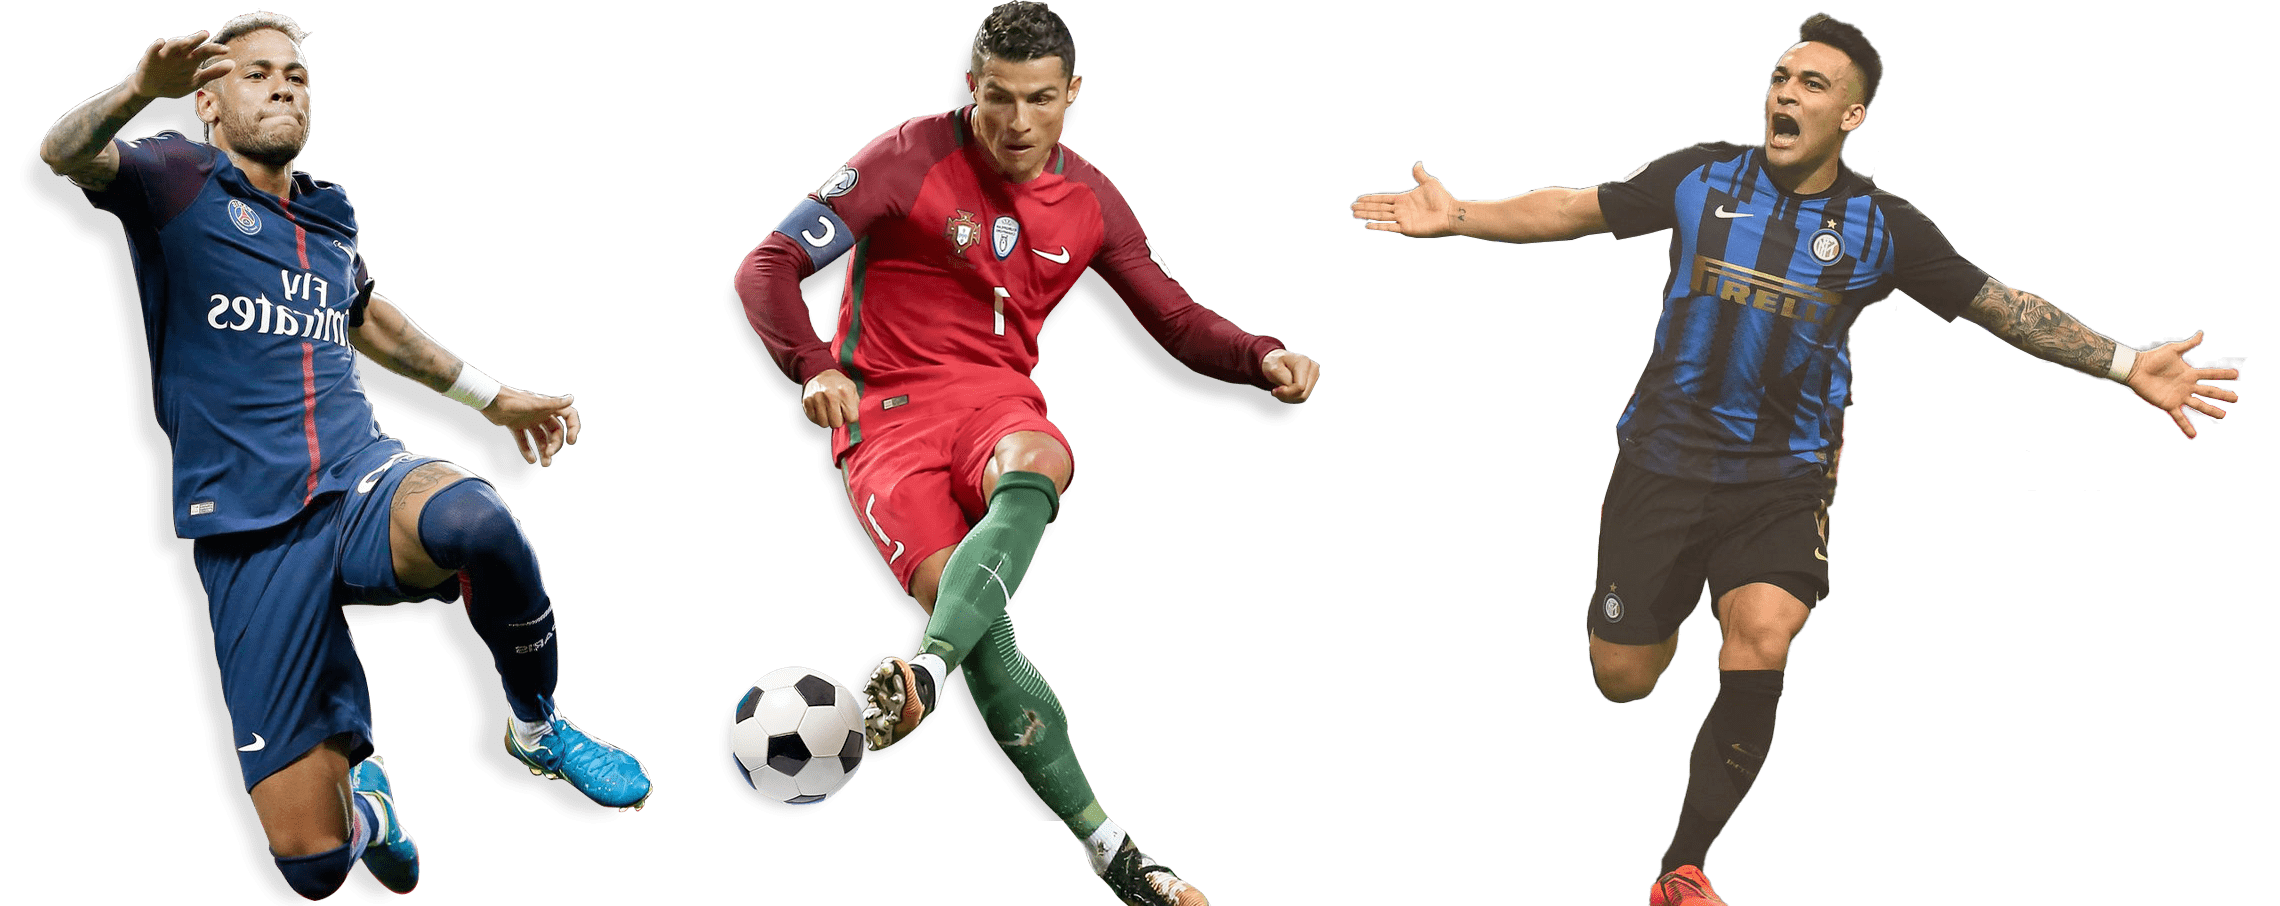
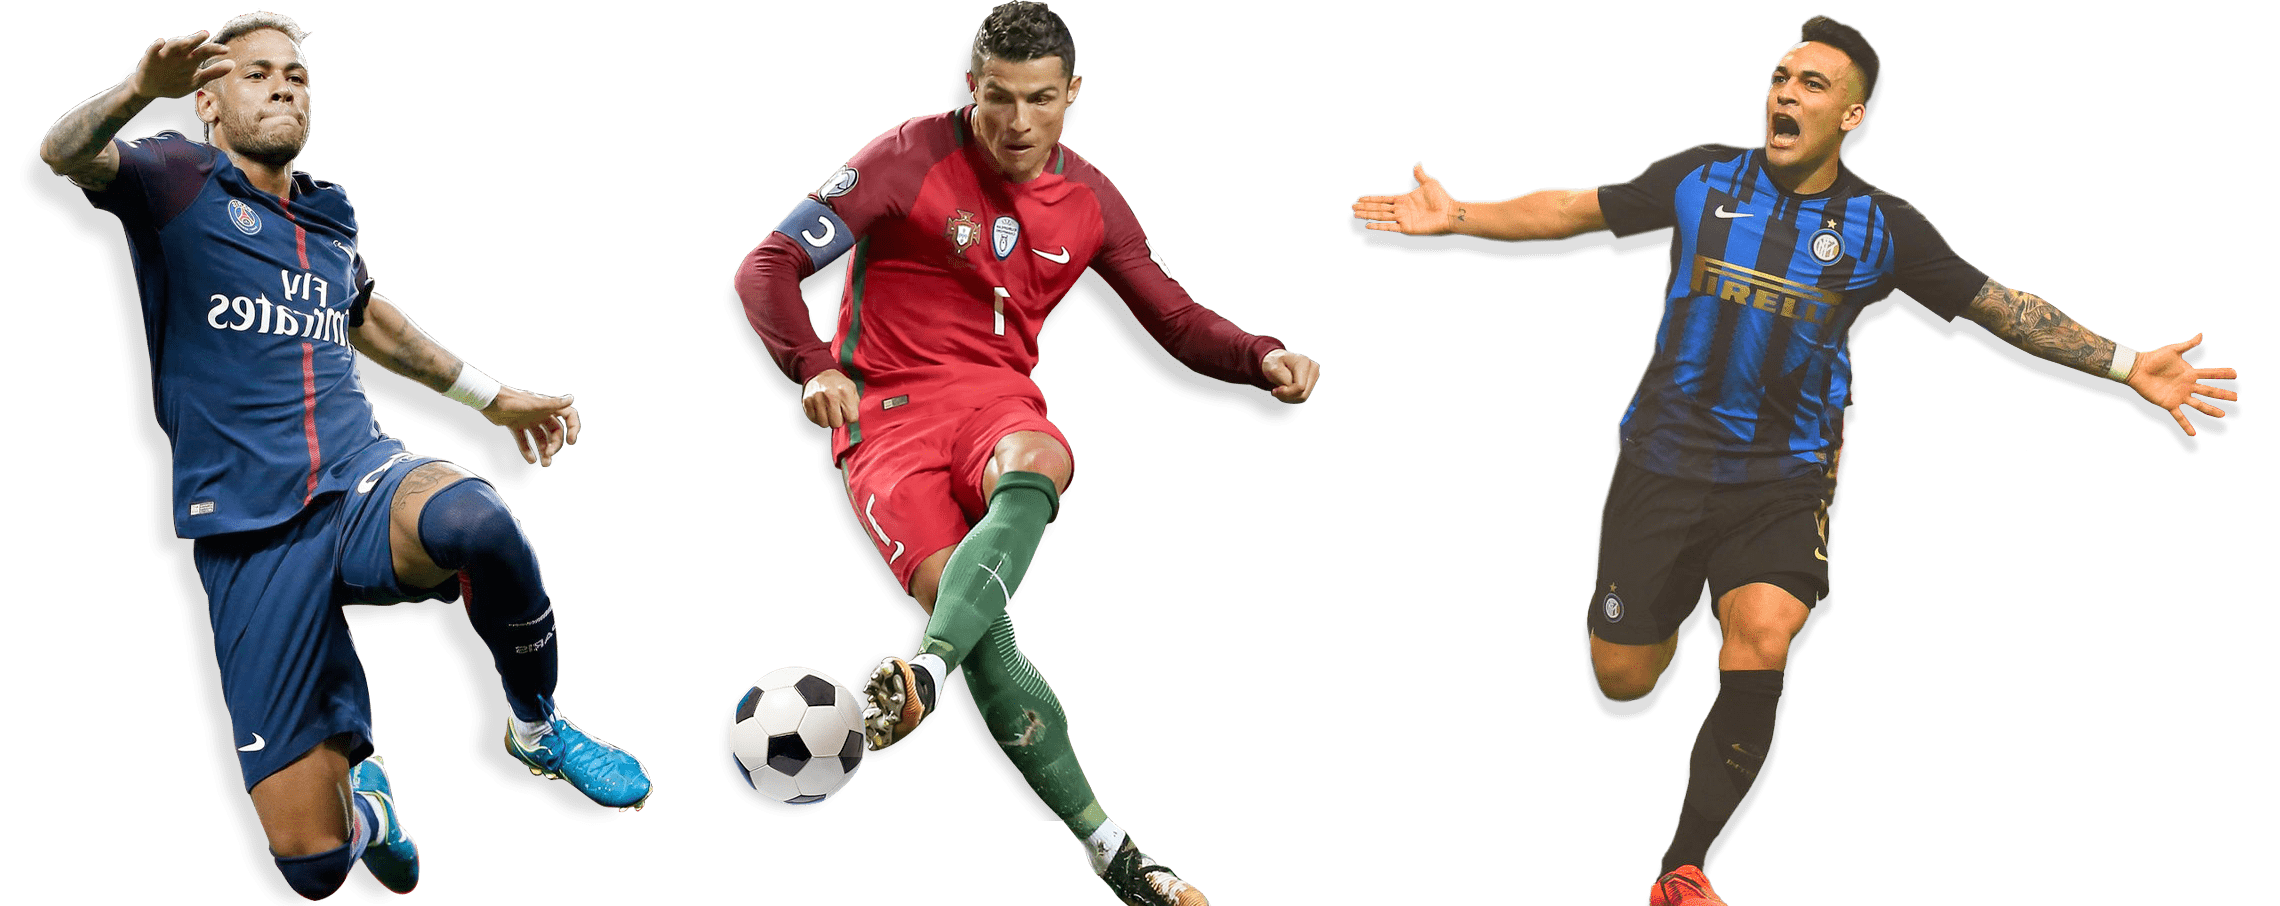
ai 修正

diff --git a/src/components/SubPage/sports.vue b/src/components/SubPage/sports.vue
@@ -165,7 +165,7 @@ export default {
           isLoginSport = false
           this.$bus.$emit('loadingHide')
           if (res.data.Success === true) {
-            this.sports = false
+            if (plat !== 'ai') this.sports = false
             if (plat === 'nsp') {
               if (process.env.NODE_ENV === 'development') {
                 this.gameUrl = 'NSP.html?gurl=' + res.data.Result.substring(res.data.Result.indexOf('//') + 2)
@@ -211,7 +211,18 @@ export default {
     let queryPlat = this.$route.query.plat
     // debugger
     if (queryPlat) {
-      this.game = queryPlat === 'nsp' ? 0 : 1
+      // this.game = queryPlat === 'nsp' ? 0 : 1
+      switch (queryPlat) {
+        case 'ai':
+          this.game = 0
+          break
+        case 'nsp':
+          this.game = 1
+          break
+        case 'ysb':
+          this.game = 2
+          break
+      }
       this.active = this.game
       this.sports = true
       this.$nextTick(() => (this.openGame(queryPlat)))

diff --git a/src/components/HomePage/gamebar.vue b/src/components/HomePage/gamebar.vue
@@ -209,6 +209,7 @@ export default {
     // 按钮跳转
     btnJump (methodsWords, i) {
       switch (methodsWords) {
+        case 'ai':
         case 'xj':
         case 'ysb':
           this.$router.push({ name: 'Sports', params: { plat: methodsWords } })
